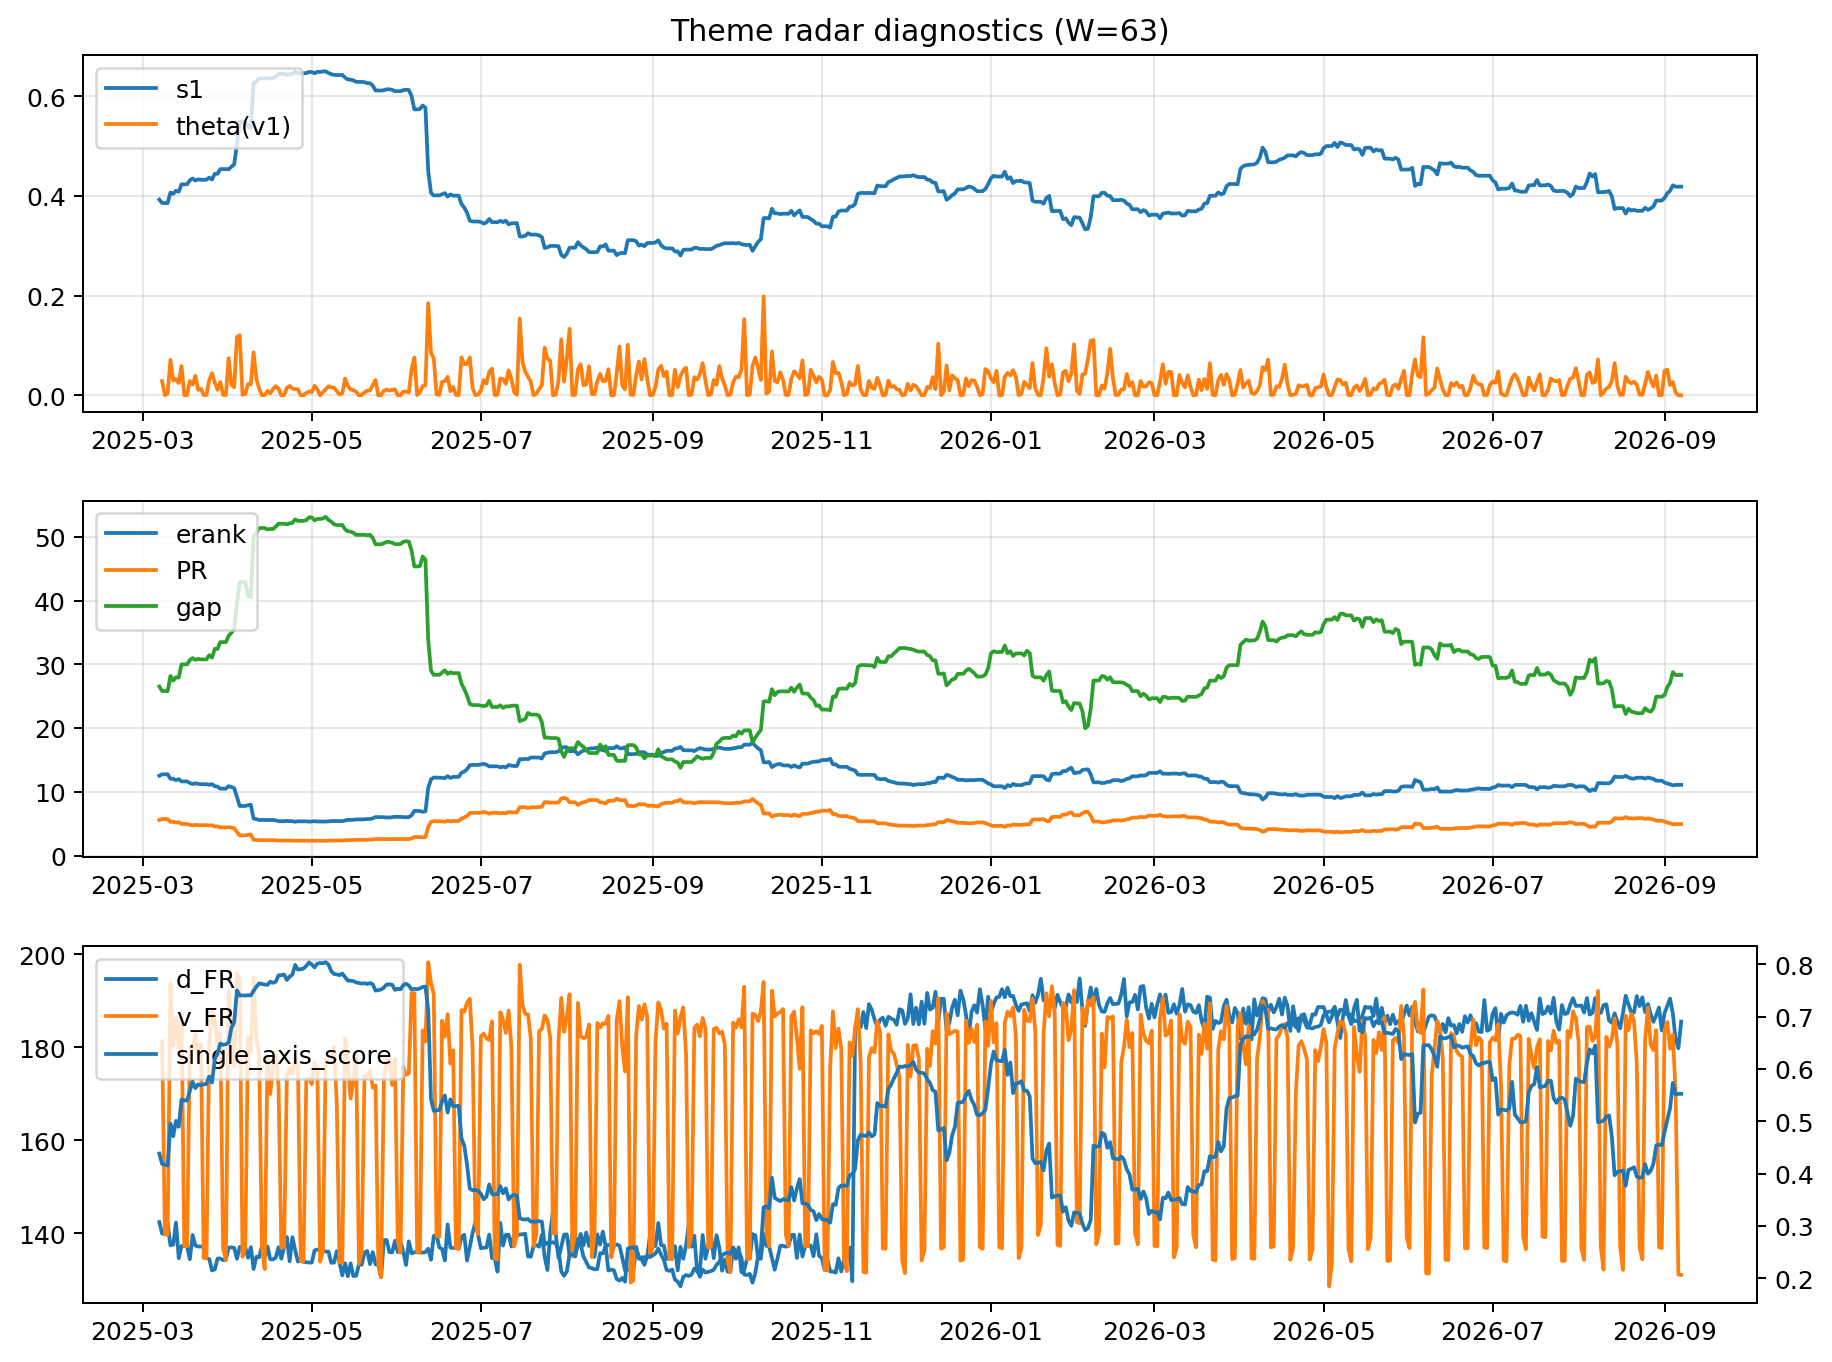
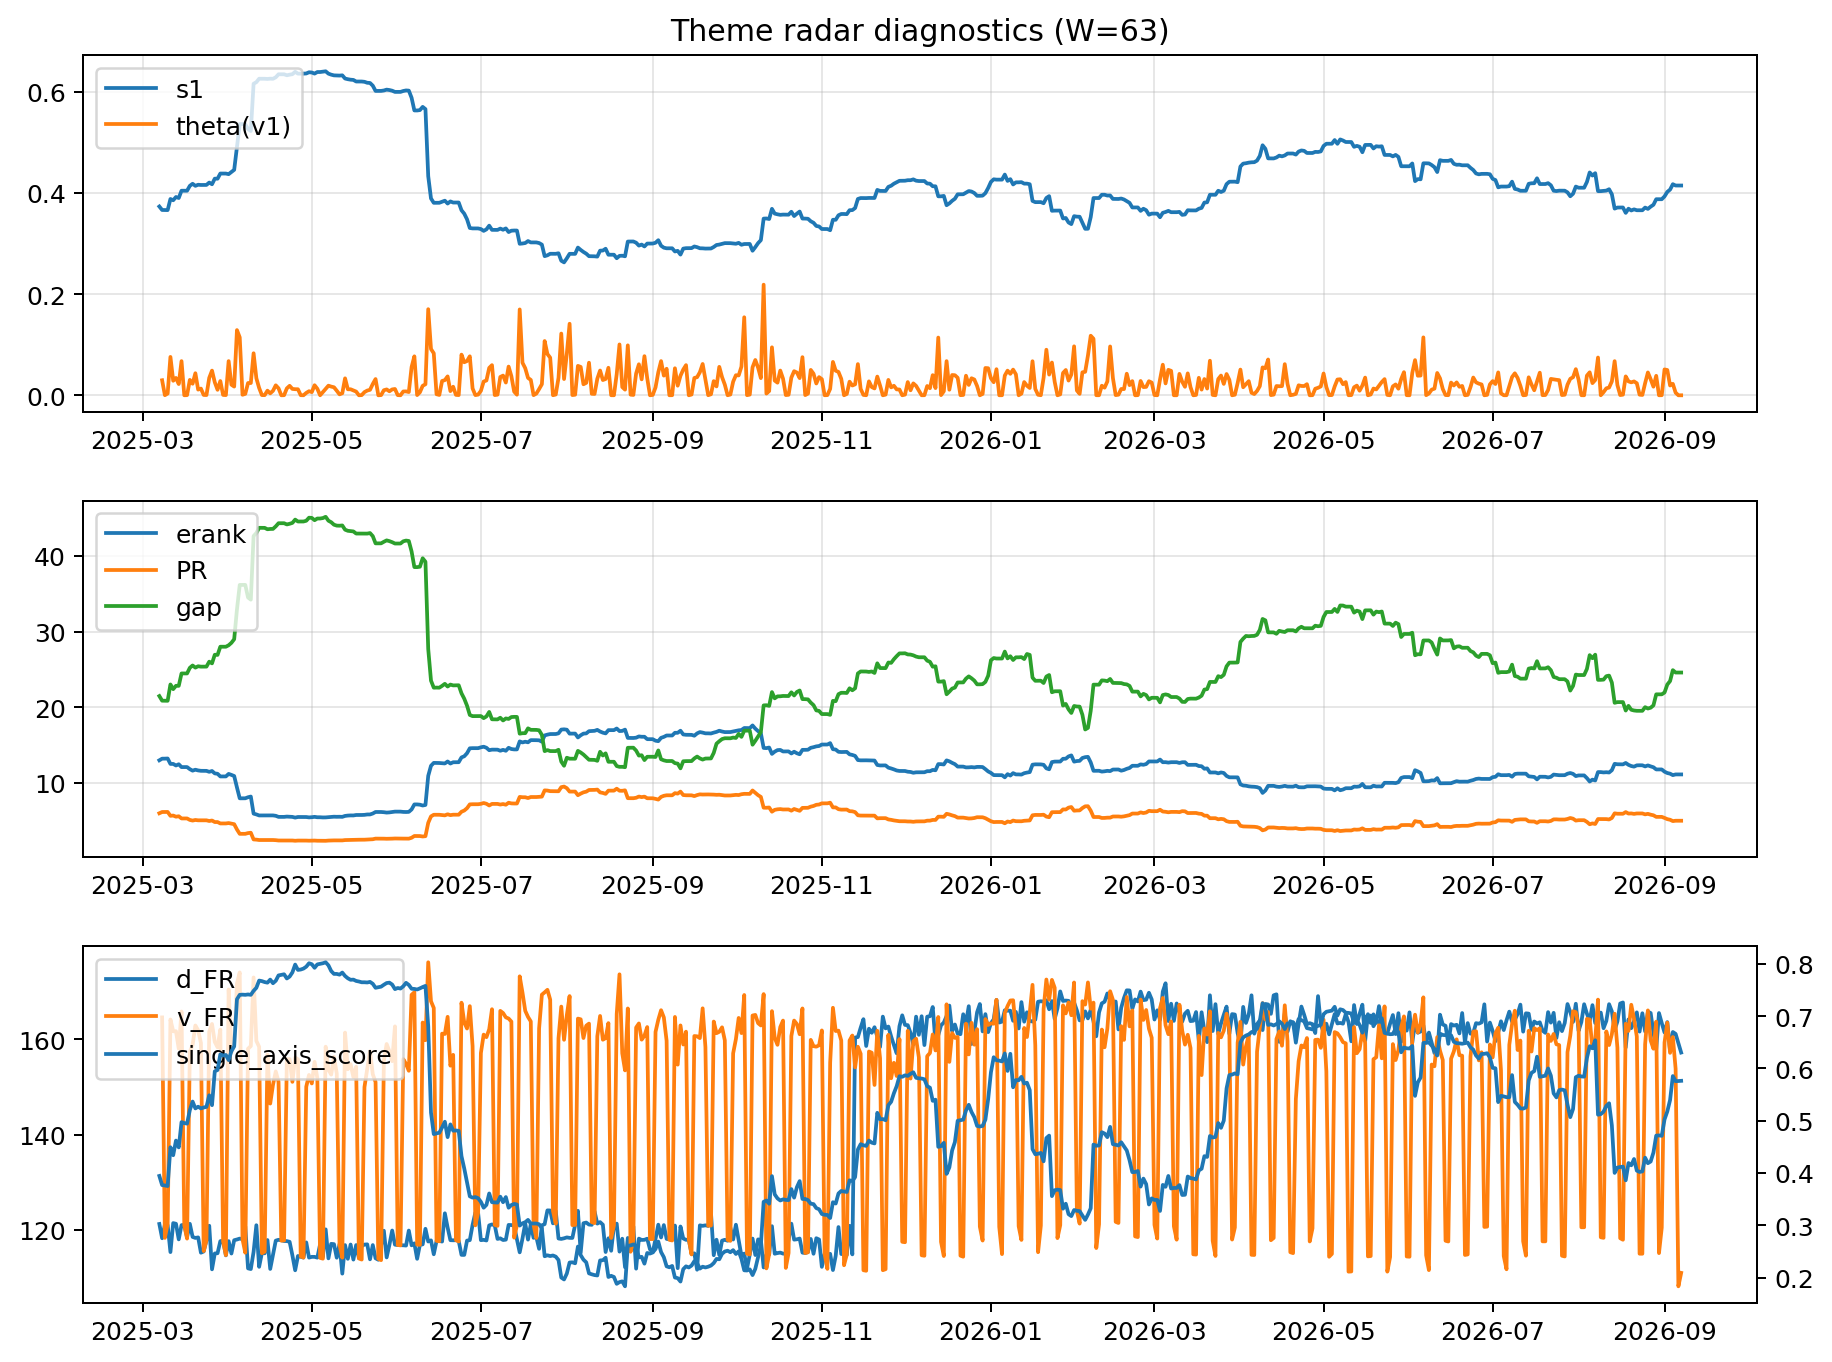
log: 2026-09-07 | sha256:0aafbdfa80a10d1b0b41f7f54cc3a08800a2e0e8b3cd3f5b143ff3a328a47a99

diff --git a/logs/2026-09-07.md b/logs/2026-09-07.md
@@ -3,52 +3,52 @@
 ![diagnostic W63](../assets/diagnostic/2026-09-07_W63.png)
 
 ## Leaders (v1) — W=63
-- **Nuclear_Uranium** (0.0884434424083388)
-- Semis (0.0679319413057957)
-- Quantum (0.0624526895997273)
+- **Nuclear_Uranium** (0.0847116461115918)
+- Semis (0.0768096937144641)
+- Quantum (0.0719569582710819)
 
 ## Challengers — W=63
-**v2:** Rates (0.0931800608587101), Semis (0.0786401952293423), Grid_Power (0.0629144934132518)
-**v3:** Genomics_Bio (0.0905559158516532), Crypto (0.0899144894556835), Metals (0.0761897299350765)
+**v2:** Rates (0.1145038982132748), Semis (0.0961633698416683), Genomics_Bio (0.0630197093654636)
+**v3:** Genomics_Bio (0.109293584525894), Crypto (0.0854787275774066), Metals (0.0602676008402747)
 
 ## Migration (20D slope) — W=63
 **Top risers:**
-- axis_Rates: 0.000811056718476
-- axis_Genomics_Bio: 0.0004207821434415
-- axis_DataCenter_Infra: 0.000344116850215
-- axis_Software_Cloud: 0.0003392223453412
-- axis_Space: 0.0003273768312399
-- axis_Commodities: 0.000266251470209
-- axis_Crypto: 0.000253372472604
-- axis_Drones_Autonomy: 0.0001557852945419
-- axis_Metals: 0.0001134698155744
-- axis_Sector_Fin: 0.000105145168223
+- axis_Rates: 0.0008410038876563
+- axis_Genomics_Bio: 0.0004445821112291
+- axis_DataCenter_Infra: 0.0003722850714503
+- axis_Space: 0.0003153710858197
+- axis_Commodities: 0.0002836093261314
+- axis_Software_Cloud: 0.0002386376493652
+- axis_Drones_Autonomy: 0.0001509439984094
+- axis_Sector_Fin: 0.0001109093542057
+- axis_Crypto: 9.96168178361776e-05
+- axis_Credit: 8.140408707316691e-05
 
 **Top fallers:**
-- axis_MegaCap_AI: -0.0001537928050757
-- axis_Robotics: -0.0001643501940372
-- axis_Equity_ExUS: -0.0001710100504989
-- axis_Equity_US: -0.0001805943719421
-- axis_Sector_Health: -0.0001908032515589
-- axis_Sector_RealEstate: -0.0002168117357256
-- axis_Nuclear_Uranium: -0.0002393778159646
-- axis_Critical_Minerals: -0.000271265970253
-- axis_Grid_Power: -0.0003165065748036
-- axis_Semis: -0.0004725403845884
+- axis_Grid_Power: -0.0001264804458262
+- axis_Quantum: -0.000163850033899
+- axis_Equity_ExUS: -0.0001738723046438
+- axis_Equity_US: -0.0001873505170656
+- axis_MegaCap_AI: -0.000200523394027
+- axis_Sector_Health: -0.0002081900529047
+- axis_Sector_RealEstate: -0.0002390570490982
+- axis_Nuclear_Uranium: -0.0002607069482068
+- axis_Critical_Minerals: -0.0002729678217609
+- axis_Semis: -0.000482075803163
 
 ## Risk line (W=63)
-- s1: 0.4185200425745325
-- theta_v1: 8.437992225207271e-06
-- v_FR: 131.0693697547351
-- single_axis_score: 0.5523636363636364
+- s1: 0.4147450964806952
+- theta_v1: 1.5695549481270077e-05
+- v_FR: 111.03108843854756
+- single_axis_score: 0.5763636363636364
 
 ## Interpretation
 **Regime:** `theme_migration`
 
-- Action: Tomorrow watchlist: Rates, Genomics_Bio, DataCenter_Infra, Software_Cloud, Space + v2_top1=Rates
+- Action: Tomorrow watchlist: Rates, Genomics_Bio, DataCenter_Infra, Space, Commodities + v2_top1=Rates
 - Action: Hedge note: normal correlation stability.
 
-- Percentiles (W=63 history): vfr_pct=0.01, theta_pct=0.00, s1_pct=0.56, score_pct=0.58.
+- Percentiles (W=63 history): vfr_pct=0.00, theta_pct=0.00, s1_pct=0.59, score_pct=0.61.
 
 ---
[2 lines of base64/hex data omitted]
